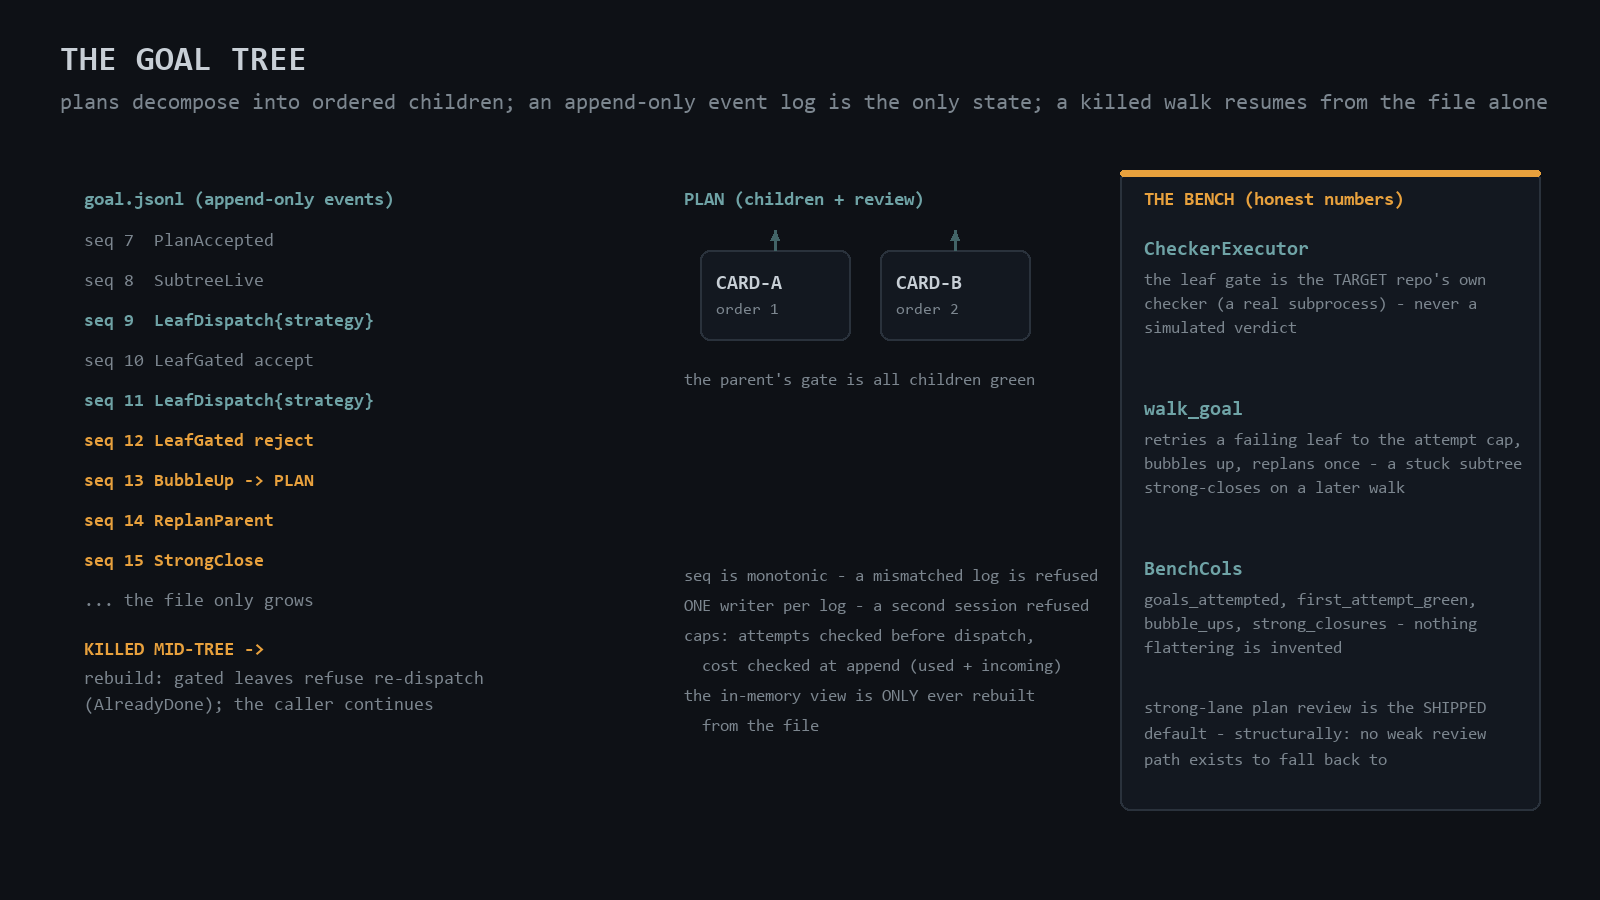
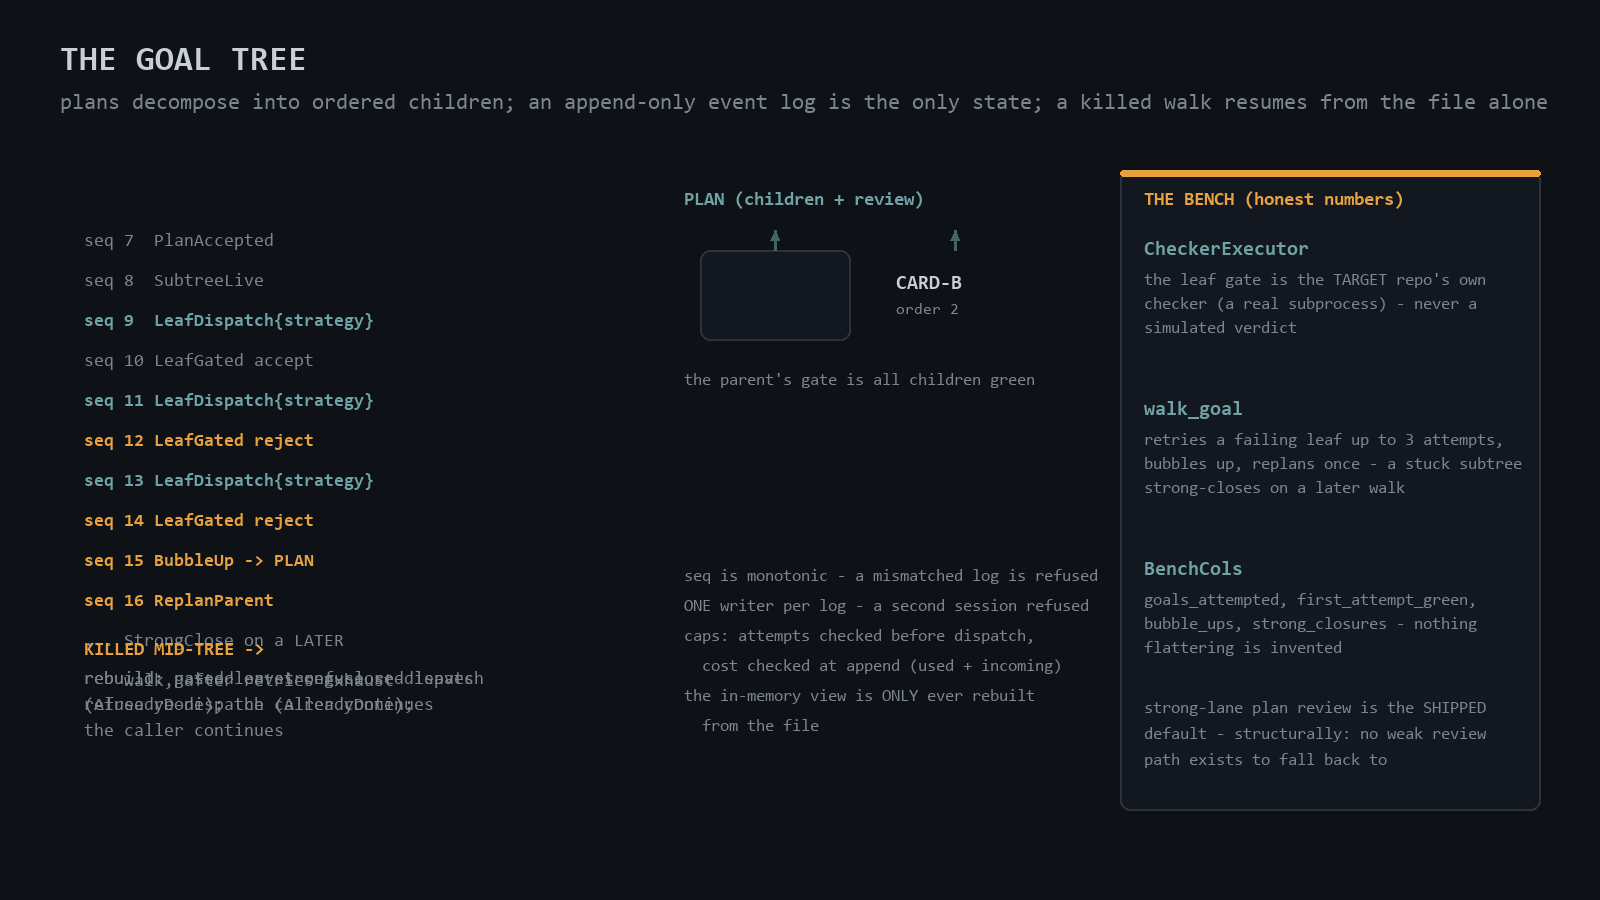
sentinel doc-reality r5: 3-attempt leaf retry, truthful event strip, precise resume (CARD-0099)

diff --git a/tools/assets/diagrams_work.py b/tools/assets/diagrams_work.py
@@ -145,7 +145,6 @@ def draw_tree():
     d.text((60, 44), "THE GOAL TREE", font=mono(34, bold=True), fill=TEXT)
     label(d, 60, 92, "plans decompose into ordered children; an append-only event log is the only state; a killed walk resumes from the file alone", 22)
 
-    label(d, 84, 190, "goal.jsonl (append-only events)", 19, TEAL, bold=True)
     events = [
         ("seq 7  PlanAccepted", DIM),
         ("seq 8  SubtreeLive", DIM),
@@ -153,10 +152,12 @@ def draw_tree():
         ("seq 10 LeafGated accept", DIM),
         ("seq 11 LeafDispatch{strategy}", TEAL),
         ("seq 12 LeafGated reject", AMBER),
-        ("seq 13 BubbleUp -> PLAN", AMBER),
-        ("seq 14 ReplanParent", AMBER),
-        ("seq 15 StrongClose", AMBER),
-        ("... the file only grows", DIM),
+        ("seq 13 LeafDispatch{strategy}", TEAL),
+        ("seq 14 LeafGated reject", AMBER),
+        ("seq 15 BubbleUp -> PLAN", AMBER),
+        ("seq 16 ReplanParent", AMBER),
+        ("... StrongClose on a LATER", DIM),
+        ("    walk, after retries exhaust", DIM),
     ]
     for i, (s, c) in enumerate(events):
         label(d, 84, 232 + i * 40, s, 18, c, bold=(c in (TEAL, AMBER)))
@@ -165,9 +166,9 @@ def draw_tree():
     label(d, 84, 696, "(AlreadyDone); the caller continues", 18)
     label(d, 684, 190, "PLAN (children + review)", 19, TEAL, bold=True)
     panel(d, 700, 250, 150, 90, None)
-    label(d, 716, 274, "CARD-A", 20, TEXT, bold=True)
-    label(d, 716, 302, "order 1", 16, DIM)
-    panel(d, 880, 250, 150, 90, None)
+    label(d, 84, 670, "rebuild: passed or strong-closed leaves", 18)
+    label(d, 84, 696, "refuse re-dispatch (AlreadyDone);", 18)
+    label(d, 84, 722, "the caller continues", 18)
     label(d, 896, 274, "CARD-B", 20, TEXT, bold=True)
     label(d, 896, 302, "order 2", 16, DIM)
     arrow(d, 775, 250, 775, 230)
@@ -195,7 +196,7 @@ def draw_tree():
         label(d, 1144, 272 + j * 24, line, 17, DIM)
     label(d, 1144, 400, "walk_goal", 20, TEAL, bold=True)
     for j, line in enumerate(_wrap(
-        "retries a failing leaf to the attempt cap, bubbles up, replans once - a stuck subtree strong-closes on a later walk", 42
+        "retries a failing leaf up to 3 attempts, bubbles up, replans once - a stuck subtree strong-closes on a later walk", 42
     )):
         label(d, 1144, 432 + j * 24, line, 17, DIM)
     label(d, 1144, 560, "BenchCols", 20, TEAL, bold=True)

diff --git a/README.md b/README.md
@@ -262,10 +262,10 @@ The log's laws are the tree's whole durability story:
   shows every gated leaf, a re-dispatch of a finished one refuses with
   AlreadyDone, and the caller continues with the next unfinished
   child.
-- **Failures bubble, in stages.** A rejected leaf is retried up to the
-  attempt cap; if it still fails, the failure bubbles up to the plan,
-  which may replan exactly once — and a subtree that cannot converge is
-  strong-closed on a later walk, not inside the same call.
+- **Failures bubble, in stages.** A rejected leaf is retried — up to
+  three attempts per leaf; if it still fails, the failure bubbles up to
+  the plan, which may replan exactly once — and a subtree that cannot
+  converge is strong-closed on a later walk, not inside the same call.
 - **Dispatches carry a strategy stamp.** Every LeafDispatch event
   records the preset that produced it, in the tree's log. The ladder's
   determinism and hysteresis rules read a SEPARATE store — the
